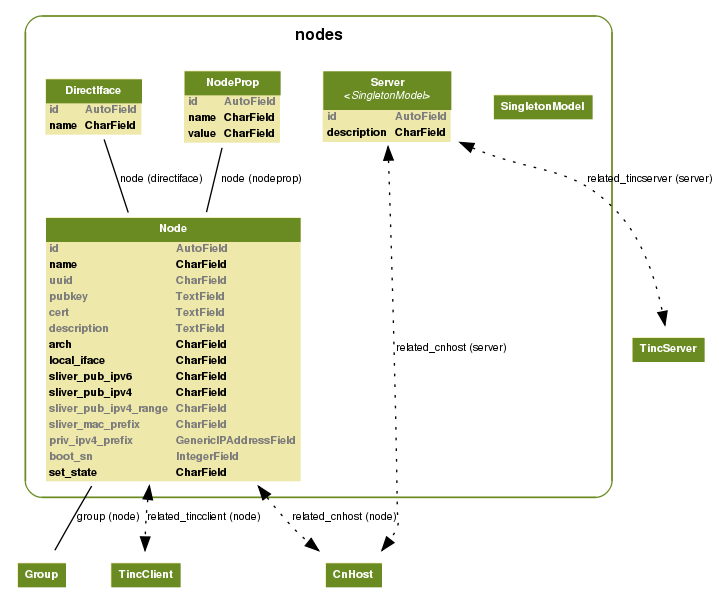
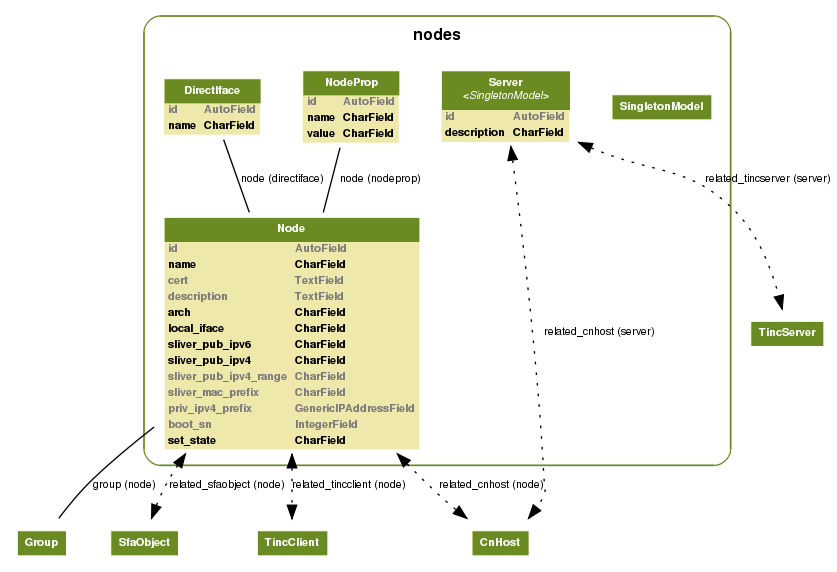
Updated model graphs

Changed region(s): [[0.0, 0.0, 1.0, 0.9808], [0.5508, 0.5647, 0.7955, 0.5944]]

diff --git a/tinc/models.py b/tinc/models.py
@@ -276,8 +276,7 @@ related_models = [Host, Node]
 
 @property
 def tinc(self):
-    try: return self.related_tincclient.get()
-    except TincClient.DoesNotExist: return {}
+    return self.related_tincclient.get()
 
 for model in related_models:
     model.add_to_class('related_tincclient', generic.GenericRelation('tinc.TincClient'))
@@ -286,8 +285,7 @@ for model in related_models:
 # Hook TincServer support to Server
 @property
 def tinc(self):
-    try: return self.related_tincserver.get()
-    except TincServer.DoesNotExist: return {}
+    return self.related_tincserver.get()
 
 Server.add_to_class('related_tincserver', generic.GenericRelation('tinc.TincServer'))
 Server.add_to_class('tinc', tinc)

diff --git a/sfa/models.py b/sfa/models.py
@@ -45,7 +45,7 @@ related_models = [Slice, User, Group, Node]
 @property
 def sfa(self):
     try: return self.related_sfaobject.get()
-    except SfaObject.DoesNotExist: return {}
+    except SfaObject.DoesNotExist: return None
 
 for model in related_models:
     model.add_to_class('related_sfaobject', generic.GenericRelation('sfa.SfaObject'))
